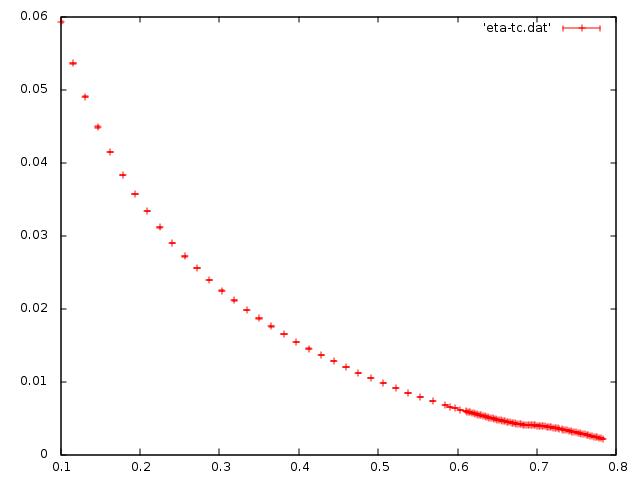
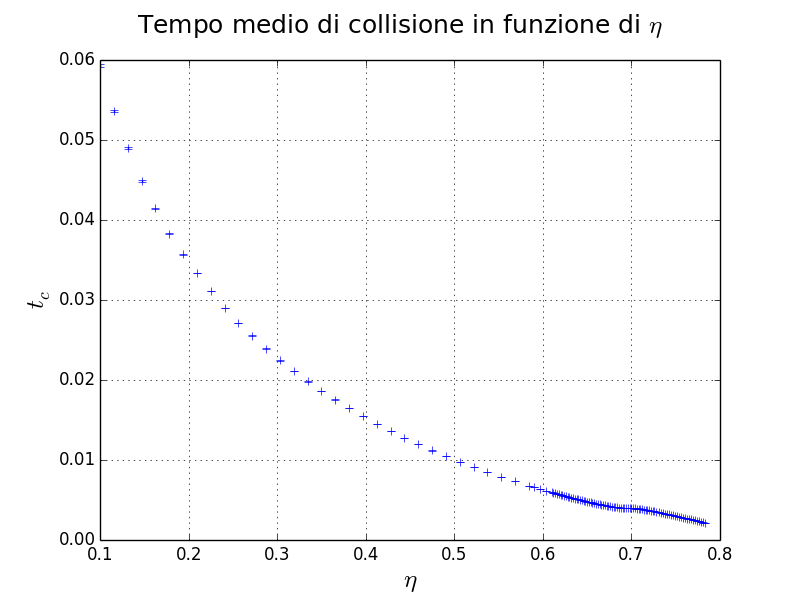
vado a letto

diff --git a/relazioni/relazione.tex b/relazioni/relazione.tex
@@ -86,7 +86,48 @@ Gli errori sono stato calcolati facendo girare dieci volte il programma agli ste
 	}	
 	\caption{ $\frac{P V_0}{n k_{b} T}$ in funzione di $\eta$ con $n=128$ particelle.}
 	\end{figure}
-Si può vedere dal grafico che questo sistema presenta una transizione di fase dovuta all'alta densità di impacchettamento.
+Si può vedere dal grafico che questo sistema presenta una transizione di fase dovuta all'alta densità di impacchettamento.\\
+La transizione avviene ad un valor della frazione di impacchettamento pari a $\eta \sim 0.69$, ma è presente una regione metastabile in cui la pendenza della curva è praticamente nulla.
+Subito dopo questo valore la curva ricomincia a salire, anche se con pendenza minore.
+Per $\eta \sim 0.708$ la pendenza della curva torna ad essere piatta, mentre per $\eta \sim 0.71$ la curva ricomincia a salire, con una pendenza superiore rispetto a prima della transizione di fase.\\
+Le due regioni in cui la pendenza della curva si annulla sono agli estremi della regione in cui avviene la transizione di fase. 
+
+
+%%%%%%%%%%%%%%%%%%%%%%%%%%%%%%%%%%%%%%%%%%%%%%%%% RIGUARDAAAAAAAAAAAAAAAAAAAAAAAAAAAAAA%%%%%%%%%%%%%%%%%%%%%%%%%%
+
+\subsection{Tempi di collisioni}
+
+Come si è visto analizzando il numero di collisioni avvenute in funzione della frazione di impacchettamento, il tempo medio di collisione aumenta all'aumentare della frazione di impacchettamento.\\
+Ciò è dovuto sostanzialmente al fatto che la distanza media tra il bordo dei dischi diminuisce all'aumentare del diametro e la distribuzione di velocità è pressochè simile al variare della frazione di impacchettamento.
+Possiamo osservare questo comportamento sia analizzando il tempo di collisione medio tra i dischi sia studiando la distribuzione di probabilità associata ai tempo di collisione.
+
+\subsubsection*{Tempo medio di collisione}
+Si è calcolato il tempo medio di collisione per ogni simulazione e come nel caso della pressione, sono state ripetute 10 volte le misure. Da questo campione di dati si è calcolato media e deviazione standard della media.
+
+\begin{center}
+\begin{figure}
+
+	\centering
+	\subfigure[Andamento generale]{
+	\includegraphics[scale=0.55]{sfere2D/tc.png}
+	}
+	\subfigure[Ingrandimento nella zona di transizione]{
+	\includegraphics[scale=0.55]{sfere2D/tczoom.png}
+	}
+\caption{Tempo medio di collisione in funzione della funzione di impacchettamento, $n=128$}
+\end{figure}
+
+\end{center}
+
+ 
+
+
+
+
+
+
+
+
 
 
 \chapter{Modello di Ising}
